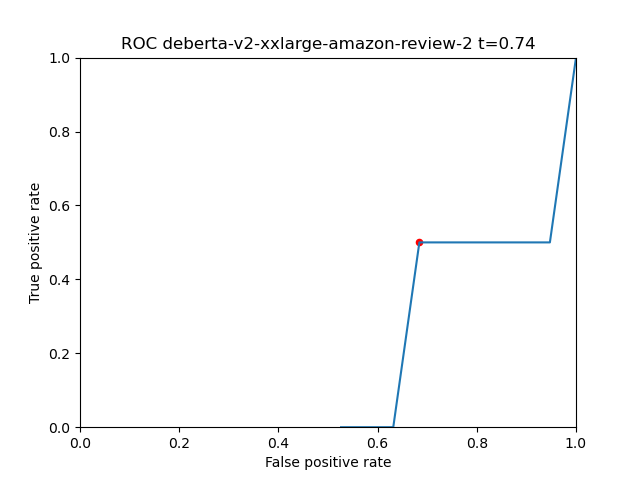
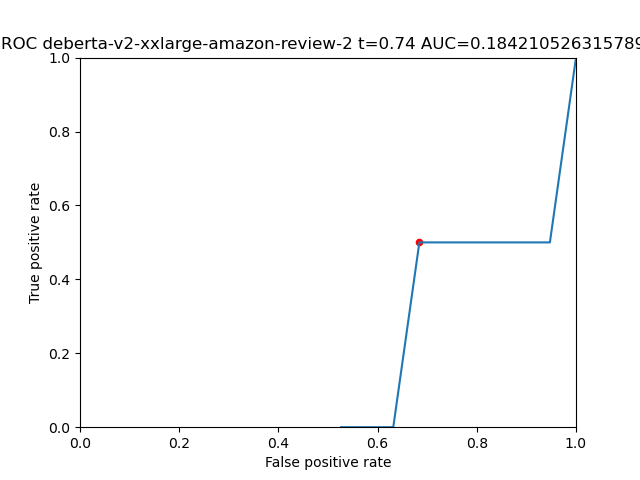
add combined roc and auc

Changed region(s): [[0.0, 0.0625, 1.0, 0.125]]

diff --git a/test_api.py b/test_api.py
@@ -4,9 +4,12 @@ import json
 import nltk.data
 import nltk
 import numpy as np
+from sklearn import metrics
+
 from pathlib import Path
 import matplotlib.pyplot as plt
 import math
+import os
 
 tokenizer = nltk.data.load('tokenizers/punkt/english.pickle')
 
@@ -25,11 +28,33 @@ def process_text(filepath, labels, model):
     output = open("results/{}/".format(model) + result_file + "-result.txt", "w+", encoding='utf-8')
     probs = get_probs(output, info)
 
-    fpr, tpr, thresholds = calc_rates(probs, info)
+    target = []
+    for arr in info["gt"]:
+        target += arr
+    fpr, tpr, thresholds = calc_rates(probs, target)
 
     index = get_best_threshold_index(fpr, tpr)
 
     plot_roc_curve(fpr, tpr, model, result_file, index, thresholds[index])
+
+
+def test_all(model):
+    probs = []
+    target = []
+
+    for filename in os.listdir("test/amazon-reviews"):
+        with open("test/amazon-reviews/" + filename, encoding='utf-8') as f:
+            info = json.load(f)
+
+        for arr in info["gt"]:
+            target += arr
+
+        probs += get_probs(None, info)
+    
+    fpr, tpr, thresholds = calc_rates(probs, target)
+
+    index = get_best_threshold_index(fpr, tpr)
+    plot_roc_curve(fpr, tpr, model, "Amazon", index, thresholds[index])
 
 
 def get_best_threshold_index(fpr, tpr):
@@ -50,19 +75,18 @@ def get_probs(output, info):
         info["text"] = line
         results = call_classifier(info)
         print(results)
-        output.write(line + "\n")
-        output.write(str(results) + "\n")
+        if output:
+            output.write(line + "\n")
+            output.write(str(results) + "\n")
         probs += list(results.values())
     return probs
 
 
-def calc_rates(probs, info):
+def calc_rates(probs, target):
     thresholds = [x/100.0 for x in range(0,100,2)]
     fpr = []
     tpr = []
-    target = []
-    for arr in info["gt"]:
-        target += arr
+    
     target = np.array(target)
     for t in thresholds:
         prediction = np.zeros(len(probs))
@@ -84,7 +108,8 @@ def plot_roc_curve(fpr, tpr, model, result_file, index, best_threshold):
     plt.ylabel('True positive rate')
     plt.xlim([0,1])
     plt.ylim([0,1])
-    plt.title('ROC {} t={}'.format(result_file, best_threshold))
+    auc = metrics.auc(fpr, tpr)
+    plt.title('ROC {} t={} AUC={}'.format(result_file, best_threshold, auc))
     plt.savefig("results/{}/roc_plots/{}.png".format(model, result_file))
 
 
@@ -93,5 +118,9 @@ if __name__ == "__main__":
     parser.add_argument("--file_dir", default="input.json")
     parser.add_argument("--labels", default="anger,excitement,happiness,racism")
     parser.add_argument("--model", default="deberta-v2-xxlarge")
+    parser.add_argument("--test_all", default="False")
     args = parser.parse_args()
-    process_text(args.file_dir, args.labels, args.model)
+    if args.test_all == "True":
+        test_all(args.model)
+    else:
+        process_text(args.file_dir, args.labels, args.model)
